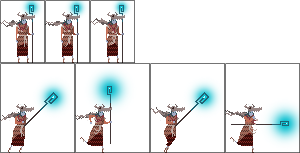
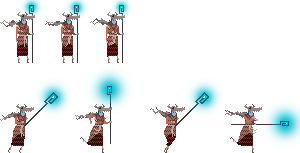
Adjust rendering settings

Changed region(s): [[0.0, 0.0, 1.0, 1.0]]

diff --git a/Classes/AppDelegate.cpp b/Classes/AppDelegate.cpp
@@ -37,15 +37,13 @@ bool AppDelegate::applicationDidFinishLaunching() {
 		director->setOpenGLView(glview);
 	}
 
-	// turn on display FPS
-	director->setDisplayStats(true);
-
 	// set FPS. the default value is 1.0/60 if you don't call this
 	director->setAnimationInterval(1.0 / 60);
 
 	// Set the design resolution
-	glview->setDesignResolutionSize(480, 320, ResolutionPolicy::NO_BORDER);
-	glview->setFrameSize(480, 320);
+	cocos2d::Size windowSize(640, 480);
+	glview->setDesignResolutionSize(windowSize.width, windowSize.height, ResolutionPolicy::NO_BORDER);
+	glview->setFrameSize(windowSize.width, windowSize.height);
 
 	register_all_packages();
 

diff --git a/Classes/HelloWorldScene.cpp b/Classes/HelloWorldScene.cpp
@@ -42,7 +42,7 @@ HelloWorld* HelloWorld::create(Destination const& destination)
 }
 
 HelloWorld::HelloWorld()
-	: m_cameraSize(480, 320)
+	: m_cameraSize(Director::getInstance()->getOpenGLView()->getFrameSize())
 	, m_targetPosX(0)
 {}
 
